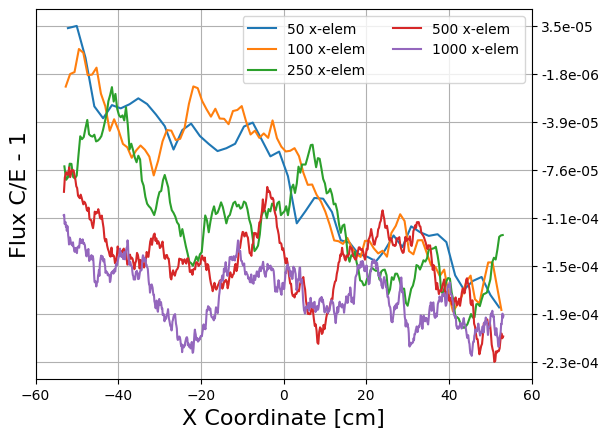
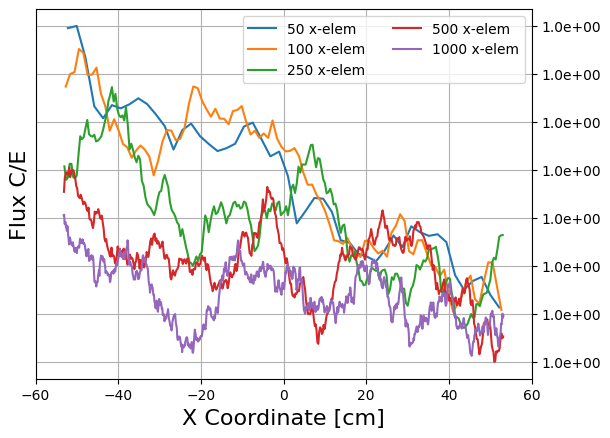
linspace does not give moose centroids. need centroids for valid flux analytical value. updates prompted more runs in a restart

diff --git a/simulations/visualization/no_ss_no_mesh_template_flux_relaxation_on/visualize_results.py b/simulations/visualization/no_ss_no_mesh_template_flux_relaxation_on/visualize_results.py
@@ -3,6 +3,7 @@ import numpy as np
 import matplotlib.pyplot as plt
 from matplotlib.ticker import ScalarFormatter
 import pandas as pd
+# TODO cleanup
 
 # list mesh element sizes that will be used to iterate through all cases
 # n_elems = [50,100,250,500,1000]
@@ -90,7 +91,7 @@ xx = {} # key is number of elements, value is numpy array of mesh center points
 temps = {} # key is number of elements, value is data frame read in from csv
 cardinal_fluxes = {}
 for n in n_elems:
-    xx[n] = np.linspace(-L/2,L/2,n)
+    xx[n] = pd.read_csv(f"openmc_{n}_temp.csv").loc[:,"x"]
     temps[n] = pd.read_csv(f"openmc_{n}_temp.csv").loc[:,"temp"]
     cardinal_fluxes[n] = pd.read_csv(f"openmc_{n}_flux.csv").loc[:,"flux"]
     if(n==50):
@@ -120,7 +121,7 @@ for n in n_elems:
     analytical_T[n] = Sig_t0*T0*np.sqrt( (q*q*L*L*phi0*phi0)/(P*P) - (lam-1)*np.multiply(xx[n],xx[n]))
     for i in range(n):
         # ratios_flux_num_to_analy[n].append(float(flux_mesh_tallies[n].mean[i]/analytical_phi[n][i])) # openmc flux tally way
-        ratios_flux_num_to_analy[n].append(float(cardinal_fluxes[n][i]/analytical_phi[n][i]))
+        ratios_flux_num_to_analy[n].append(float(cardinal_fluxes[n][i])/analytical_phi[n][i])
         # ratios_T_to_phi[n].append(float(temps[n][i]/flux_mesh_tallies[n].mean[i]))
         ratios_temp_num_to_analy[n].append(float(temps[n][i]/analytical_T[n][i]))
     # numerical to analytical ratio
@@ -138,7 +139,9 @@ for n in n_elems:
 for n in n_elems:
     plt.plot(xx[n],ratios_temp_num_to_analy[n],label=f"{n} x-elem")
 plt.xticks([-60,-40,-20,0,20,40,60])
-plt.yticks([0.9995,1.000,1.001,1.002,1.003,1.004,1.0045])
+plt.yticks([0.9995,1.000,1.001])
+
+# plt.yticks([0.9995,1.000,1.001,1.002,1.003,1.004,1.0045])
 plt.xlabel("X Coordinate [cm]",fontsize=16)
 plt.ylabel(r"Numerical $T(x)$ to Analytical $T(x)$ Ratio",fontsize=16)
 # plt.title(f"Ratio Numerical to Analytical Temp All Meshes. 200 Picard Iterations")
@@ -191,7 +194,9 @@ for n in n_elems:
 for n in n_elems:
     plt.plot(xx[n],ratios_flux_num_to_analy[n],label=f"{n} x-elem")
 plt.xticks([-60,-40,-20,0,20,40,60])
-plt.yticks([0.9995,1.000,1.001,1.002,1.003,1.004,1.0045])
+plt.yticks([0.9995,1.000,1.001])
+
+# plt.yticks([0.9995,1.000,1.001,1.002,1.003,1.004,1.0045])
 plt.xlabel("X Coordinate [cm]",fontsize=16)
 plt.ylabel(r"Numerical $\phi(x)$ to Analytical $\phi(x)$ Ratio",fontsize=16)
 # plt.title("Ratio Numerical to Analytical Flux All Meshes. 200 Picard Iterations")
